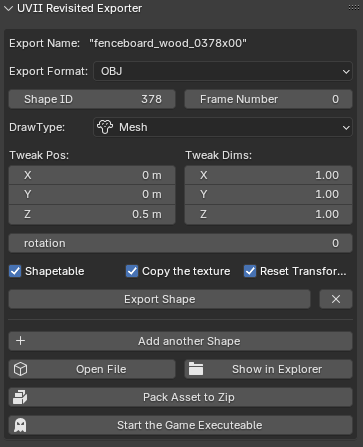
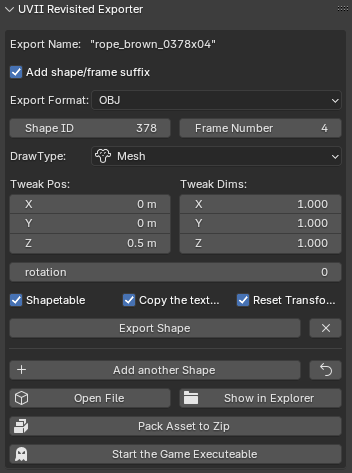
made shape-id/frame suffix optional

diff --git a/addon/ultimavii_exporter.py b/addon/ultimavii_exporter.py
@@ -14,15 +14,19 @@
 # - added multi-shape-export
 # - added texture copy option
 # 0.5:
-# - adding multi-object export
+# - added multi-object export
 # - added packing feature
-# - deleted deprecated modelnames.txt 
+# - deleted deprecated modelnames.txt
+# - various bugfixing
+# 0.6:
+# - made shape-id/frame suffix optional
+# - more bugfixing
 # --------------------------------------------------------------------------------
 
 bl_info = {
     "name": "Ultima VII Revisited Exporter",
     "author": "Oliver Reischl <clawjelly@gmail.net>",
-    "version": (0, 5),
+    "version": (0, 6),
     "blender": (4, 40, 0),
     "description": "Allows to export meshes directly into the game.",
 }
@@ -107,10 +111,10 @@ class ShapeEntry:
             # print(f"WARNING: No script found for shape {values[0]}!")
             se.script = "default"
 
-        if se.id==252 and se.frame==0:
-            print(f"Shape {se.id}-{se.frame} Sca: {values[15:18]} {se.scale}")
-            print(f"Shape {se.id}-{se.frame} Pos: {values[18:21]} {se.position}")
-            print(f"Shape {se.id}-{se.frame} Rot: {values[21]} {se.rotation}")
+        # if se.id==252 and se.frame==0:
+        #     print(f"Shape {se.id}-{se.frame} Sca: {values[15:18]} {se.scale}")
+        #     print(f"Shape {se.id}-{se.frame} Pos: {values[18:21]} {se.position}")
+        #     print(f"Shape {se.id}-{se.frame} Rot: {values[21]} {se.rotation}")
 
         return se
 
@@ -136,7 +140,10 @@ class ShapeTable:
         if self.is_loaded and not force:
             print(f"U7R-ShapeTable: Using cached ShapeTable data.")
             return
+        wm = bpy.context.window_manager
+        wm.progress_begin(0, 100)
         self.shapes = dict()
+        wm.progress_update(66)
         with open(filepath) as shapefile:
             for line in shapefile.readlines():
                 shape_obj = ShapeEntry.from_line(line)
@@ -145,6 +152,7 @@ class ShapeTable:
                 self.shapes[shape_obj.id].append(shape_obj)
         self.is_loaded = True
         print("U7R-ShapeTable: All shapes loaded.")
+        wm.progress_end()
 
     def save(self, filepath):
         lines=[]
@@ -197,7 +205,10 @@ def get_hierarchy(*objs):
 def model_to_filename(obj):
     """ Generates a standardized obj name """
     # <object name>_<shape number>x<frame number>
-    return f"{obj.name.lower()}_{obj.uvii_export_settings.shape_id:004d}x{obj.uvii_export_settings.frame:002d}"
+    settings = obj.uvii_export_settings
+    modelname = f"{obj.name.lower().split('.')[0]}"
+    suffix = f"_{settings.shape_id:004d}x{settings.frame:002d}" if settings.add_shape_frame_suffix else ""
+    return f"{modelname}{suffix}"
 
 # def parent_to_filename(obj):
 #     """ Generates a standardized obj name """
@@ -432,6 +443,12 @@ class SCRIPTS_PG_uvii_object_settings(PropertyGroup):
         maxlen=0
     )
 
+    add_shape_frame_suffix: bpy.props.BoolProperty(
+        name="Add shape/frame suffix",
+        default=False,
+        description="My Boolean Value."
+    )
+
     export_format : bpy.props.EnumProperty(
         name="Export Format",
         description="The file type it will be exported to.",
@@ -475,6 +492,7 @@ class SCRIPTS_PG_uvii_object_settings(PropertyGroup):
         name="Tweak Pos",
         description="A position offset for the shape",
         default=(0.0, 0.0, 0.0),
+        precision=3,
         min=-100.0, max=100.0,  step=0.1,
         subtype="TRANSLATION"
     )
@@ -483,6 +501,7 @@ class SCRIPTS_PG_uvii_object_settings(PropertyGroup):
         name="Tweak Dims",
         description="An additional scale for the shape.",
         default=(1, 1, 1),
+        precision=3,
         min=0.001, max=100.0,   step=0.1,
         subtype="XYZ"
     )
@@ -612,6 +631,18 @@ class SCRIPTS_OT_uvii_undo_shape(bpy.types.Operator):
         context.active_object.uvii_export_settings.is_uvii = False
         return {'FINISHED'}
 
+class SCRIPTS_OT_uvii_reload_shapedata(bpy.types.Operator):
+    """Use this if you changed shapetable.dat outside of Blender"""
+    bl_idname = "scripts.reload_shapedata"
+    bl_label = "Reload shapedata"
+
+    def execute(self, context):
+        addon_prefs = context.preferences.addons["ultimavii_exporter"].preferences
+        base_gamepath = Path(addon_prefs.game_path)
+        shapetable = ShapeTable.instance()
+        shapetable.load(base_gamepath / "data" / "shapetable.dat", force=True)
+        return {'FINISHED'}
+
 class SCRIPTS_OT_uvii_select_filepath(bpy.types.Operator):
     """Select export filepath"""
     bl_idname = "scripts.uvii_select_filepath"
@@ -668,11 +699,21 @@ class SCRIPTS_OT_uvii_export_asset(bpy.types.Operator):
     def execute(self, context):
         original_selection = [o for o in context.selected_objects]
         output_messages = []
-        for obj in context.selected_objects:
-            if not obj.uvii_export_settings.is_uvii:
-                continue
-            output_messages += export_object_to_OBJ(obj, context)
-        select(*original_selection)
+        if len(context.selected_objects)==0:
+            output_messages += export_object_to_OBJ(context.active_object, context)
+        else:
+            wm = bpy.context.window_manager
+            wm.progress_begin(0, len(context.selected_objects))
+            i=1
+            for obj in context.selected_objects:
+                wm.progress_update(i)
+                i+=1
+                if not obj.uvii_export_settings.is_uvii:
+                    continue
+                output_messages += export_object_to_OBJ(obj, context)
+            if len(original_selection)>0:
+                select(*original_selection)
+            wm.progress_end()
         bpy.context.window_manager.popup_menu(
             lambda self, ctx: ( [self.layout.label(text=x) for x in output_messages] ),
             title="Export Report", 
@@ -710,23 +751,6 @@ class SCRIPTS_OT_uvii_open_explorer_to_file(bpy.types.Operator):
         settings = context.active_object.uvii_export_settings
         print(f'explorer /select,"{settings.export_path}"')
         subprocess.Popen(f'explorer /select,"{settings.export_path}"')
-        return {'FINISHED'}
-
-class SCRIPTS_OT_restore_shapetable_entry(bpy.types.Operator):
-    """Restore """
-    bl_idname = "scripts.restore_shapetable_entry"
-    bl_label = "Restore Shape Data"
-
-    @classmethod
-    def poll(cls, context):
-        return context.active_object is not None
-
-    def execute(self, context):
-        settings = context.active_object.uvii_export_settings
-        shapetable = ShapeTable.instance()
-        shapetable.load(base_gamepath / "data" / "shapetable.dat")
-        shapetable.restore_shape(settings.shape_id, settings.frame)
-        # shapetable.save(base_gamepath / "data" / "shapetable.dat")        
         return {'FINISHED'}
 
 class SCRIPTS_OT_uvii_start_game(bpy.types.Operator):
@@ -790,6 +814,7 @@ class SCRIPTS_OT_pack_uvii_asset(bpy.types.Operator):
     def execute(self, context):
         """This is called after the window opened."""
         addon_prefs = context.preferences.addons["ultimavii_exporter"].preferences
+        base_gamepath = Path(addon_prefs.game_path)
         print(f"Filepath: {self.filepath}")
         if "." not in self.filepath or self.filepath[-4]!=".zip":
             self.filepath = self.filepath.split(".")[0]+".zip"
@@ -801,7 +826,13 @@ class SCRIPTS_OT_pack_uvii_asset(bpy.types.Operator):
             # obj
             export_files = []
             export_shapes = []
-            for obj in context.selected_objects:
+
+            selected_objects = []
+            if len(context.selected_objects)==0:
+                selected_objects.append(context.active_object)
+            else:
+                selected_objects = [o for o in context.selected_objects]
+            for obj in selected_objects:
                 if not obj.uvii_export_settings.is_uvii:
                     continue
                 asset_path = full_export_filepath(obj)
@@ -894,6 +925,7 @@ class SCRIPTS_PT_uvii_user_interface(bpy.types.Panel):
 
         if not settings.is_shape_ref:
             box.label(text=f"Export Name:   \"{model_to_filename(context.active_object)}\"")
+        box.prop(settings, "add_shape_frame_suffix")
         box.prop(settings, "export_format")
         split = box.split()
         split.prop(settings, "shape_id")
@@ -915,7 +947,9 @@ class SCRIPTS_PT_uvii_user_interface(bpy.types.Panel):
         split.operator("scripts.uvii_undo_shape", text="", icon="X")
         box.separator(type="LINE")
         if context.active_object.type=="MESH":
-            box.operator("scripts.uvii_add_shape", icon="ADD")
+            split = box.split(factor=.9)
+            split.operator("scripts.uvii_add_shape", icon="ADD")
+            split.operator("scripts.reload_shapedata", text="", icon="LOOP_BACK")
         # box.operator("scripts.restore_shapetable_entry")
         row = box.split()
         row.operator("scripts.uvii_open_exported_file", icon="FILE_3D")
@@ -938,7 +972,7 @@ blender_classes=[
     SCRIPTS_PG_uvii_object_settings,
     SCRIPTS_OT_uvii_open_exported_file,
     SCRIPTS_OT_uvii_open_explorer_to_file,
-    SCRIPTS_OT_restore_shapetable_entry,
+    SCRIPTS_OT_uvii_reload_shapedata,
     SCRIPTS_OT_uvii_start_game,
     SCRIPTS_OT_pack_uvii_asset,
     SCRIPTS_PT_uvii_user_interface
@@ -956,30 +990,3 @@ def unregister():
 
 if __name__ == "__main__":
     register()
-
-    print("------------ New Round ------------")
-
-    base_gamepath = Path(r"A:\Ultima7Revisited\Redist")
-
-    # lines = [
-    #     "889 0 0 0 8 8 0 8 8 33 8 0 33 8 0 1 1 1 0 0 0 0 1 2 2 3 3 1 Models/3dmodels/zzwrongcube.obj 1 0 889 0 func_0379 ",
-    #     "889 1 0 0 8 8 0 8 8 33 8 0 33 8 0 1 1 1 0 0 0 0 1 2 2 3 3 1 Models/3dmodels/zzwrongcube.obj 1 0 889 1 func_0379 ",
-    #     "889 2 0 0 8 8 0 8 8 31 8 0 32 8 0 1 1 1 0 0 0 0 1 2 2 3 3 1 Models/3dmodels/zzwrongcube.obj 1 0 889 2 func_0379 ",
-    #     "889 3 0 0 8 8 0 8 8 31 8 0 32 8 0 1 1 1 0 0 0 0 1 2 2 3 3 1 Models/3dmodels/zzwrongcube.obj 1 0 889 3 default "
-    # ]
-    # sobjs = [ShapeEntry.from_line(sobj) for sobj in lines]
-    # i = 0 
-    # for so in sobjs:
-    #     print(so.vals_03)
-    #     print(so.script)
-    #     print(lines[i])
-    #     i+=1
-    #     print(so.to_line())
-
-
-    # shapetable = ShapeTable.instance()
-    # shapetable.load(base_gamepath / "data" / "shapetable.dat")
-    # print(f"Found {len(shapetable.shapes)} shape entries.")
-    # print("889 0 0 0 8 8 0 8 8 33 8 0 33 8 0 1 1 1 0 0 0 0 1 2 2 3 3 1 Models/3dmodels/zzwrongcube.obj 1 0 889 0 func_0379 ")
-    # print(shapetable.shapes[889][0].to_line())
-    # shapetable.save(base_gamepath / "data" / "shapetable.new")

diff --git a/README.md b/README.md
@@ -6,6 +6,7 @@ This project aims to ease the export of mesh objects into the [Ultima VII: Revis
 ![UVIIRV_Blender_Exporter](img/UVIIRV_Blender_Exporter.PNG)
 
 - **Export Name:** This shows the filename formatted from the data according to the standards set out by ViridianGames.
+- **Add shape/frame suffix:** Wether the exporter adds the "_0378x04"-suffix to the object name.
 - **Export Format:** OBJ or GLTF. At the moment only OBJ is supported.
 - **Shape ID:** The number of the shape. The engine references that.
 - **Frame Number:** The frame number. (Shapes can have multiple frames, which represent animation, variants, etc.)
